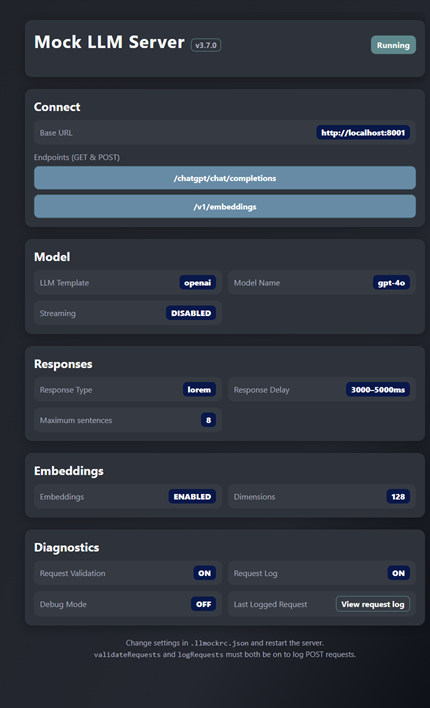
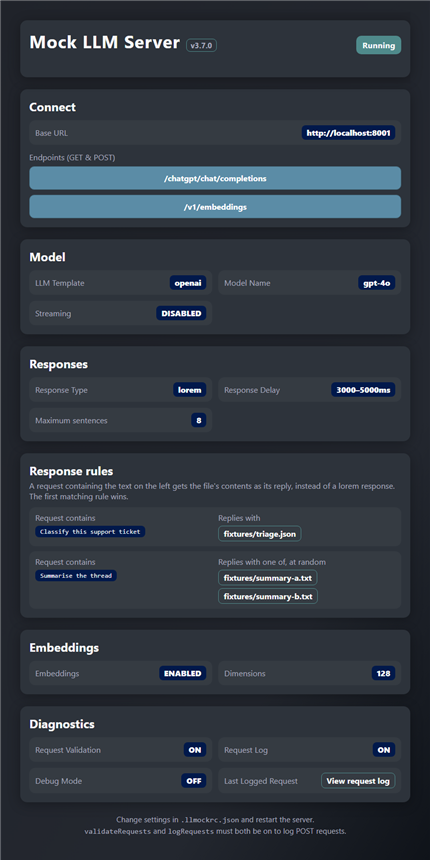
feat(): always show response rules box on dashboard
With no rules set the box shows a blank rule and a note pointing to
the responseRules setting. README screenshot now shows example rules.

diff --git a/ui/src/App.svelte b/ui/src/App.svelte
@@ -206,41 +206,55 @@
 		</div>
 	</section>
 
-	{#if meta?.responseRules?.length}
-		<section class="card" cy-data="response_rules">
-			<h2 style="margin: 0 0 4px 0;">Response rules</h2>
-			<p class="muted" style="margin: 0 0 12px 0;">
-				A request containing the text on the left gets the file's contents as its
-				reply, instead of a {meta.mockResponseType || 'generated'} response. The first
-				matching rule wins.
-			</p>
-			<div class="rules">
-				{#each meta.responseRules as rule, ruleIndex (ruleIndex)}
-					<div class="rule">
-						<div class="ruleMatch">
-							<span class="muted">Request contains</span>
-							<code>{rule.match}</code>
-						</div>
-						<div class="ruleFiles">
-							<span class="muted">
-								{rule.files.length > 1 ? 'Replies with one of, at random' : 'Replies with'}
-							</span>
-							{#each rule.files as file, fileIndex (fileIndex)}
-								<button
-									class="fileLink"
-									cy-data="rule_file_link"
-									title="View this file"
-									on:click={() => viewRuleFile(rule.match, file, ruleIndex, fileIndex)}
-								>
-									{file}
-								</button>
-							{/each}
-						</div>
+	<section class="card" cy-data="response_rules">
+		<h2 style="margin: 0 0 4px 0;">Response rules</h2>
+		<p class="muted" style="margin: 0 0 12px 0;">
+			A request containing the text on the left gets the file's contents as its
+			reply, instead of a {meta?.mockResponseType || 'generated'} response. The first
+			matching rule wins.
+		</p>
+		<div class="rules">
+			{#each meta?.responseRules ?? [] as rule, ruleIndex (ruleIndex)}
+				<div class="rule">
+					<div class="ruleMatch">
+						<span class="muted">Request contains</span>
+						<code>{rule.match}</code>
 					</div>
-				{/each}
-			</div>
-		</section>
-	{/if}
+					<div class="ruleFiles">
+						<span class="muted">
+							{rule.files.length > 1 ? 'Replies with one of, at random' : 'Replies with'}
+						</span>
+						{#each rule.files as file, fileIndex (fileIndex)}
+							<button
+								class="fileLink"
+								cy-data="rule_file_link"
+								title="View this file"
+								on:click={() => viewRuleFile(rule.match, file, ruleIndex, fileIndex)}
+							>
+								{file}
+							</button>
+						{/each}
+					</div>
+				</div>
+			{:else}
+				<!-- The same row as a rule, with its two values left blank -->
+				<div class="rule">
+					<div class="ruleMatch">
+						<span class="muted">Request contains</span>
+						<code class="ruleBlank"></code>
+					</div>
+					<div class="ruleFiles">
+						<span class="muted">Replies with</span>
+						<span class="fileLink ruleBlank"></span>
+					</div>
+				</div>
+				<p class="muted rulesEmpty" cy-data="response_rules_empty">
+					No response rules set. Add <code>responseRules</code> to the model preset in
+					<code>.llmockrc.json</code> to use them.
+				</p>
+			{/each}
+		</div>
+	</section>
 
 	<section class="card" cy-data="embeddings">
 		<h2>Embeddings</h2>

diff --git a/cypress/e2e/gpt-mock-spec.cy.ts b/cypress/e2e/gpt-mock-spec.cy.ts
@@ -106,6 +106,15 @@ describe('Mock LLM Spec for chatGPT', () => {
         });
     });
 
+    it('shows an empty response rules box on the dashboard when no rules are set', () => {
+        cy.visit('/');
+        cy.get('[cy-data="response_rules_empty"]').should(
+            'contain',
+            'No response rules set',
+        );
+        cy.get('[cy-data="rule_file_link"]').should('not.exist');
+    });
+
     it('should validate JSON against schema for a GET Request', () => {
         cy.request('GET', '/chatgpt/chat/completions').then((response) => {
             expect(response.body).to.be.jsonSchema(chatGPTSchema);

diff --git a/ui/src/styles.css b/ui/src/styles.css
@@ -219,6 +219,18 @@ h1 {
 	background: rgba(255, 255, 255, 0.04);
 }
 
+/* With no rules set the row is still drawn, its two values as empty boxes */
+.ruleBlank {
+	align-self: stretch;
+	min-height: 1.5em;
+	cursor: default;
+	pointer-events: none;
+}
+
+.rulesEmpty {
+	margin: 0;
+}
+
 .ruleMatch,
 .ruleFiles {
 	display: flex;

diff --git a/README.md b/README.md
@@ -380,9 +380,9 @@ Once running, open `http://localhost:8001` for the live dashboard:
 | `http://localhost:8001` | Main dashboard |
 | `http://localhost:8001/ping` | Health check |
 
-The dashboard shows server status, the llmock version, current configuration, available endpoints, and the most recent logged request. Settings are grouped into **Connect**, **Model**, **Responses**, **Embeddings** and **Diagnostics**. It refreshes automatically every 2 seconds.
+The dashboard shows server status, the llmock version, current configuration, available endpoints, and the most recent logged request. Settings are grouped into **Connect**, **Model**, **Responses**, **Response rules**, **Embeddings** and **Diagnostics**. It refreshes automatically every 2 seconds.
 
-With `responseType: "stored"` the dashboard names the stored responses file in use (or `Bundled`); click it to read every response in the pool. When the preset has `responseRules`, a **Response rules** box lists each rule's `match` text beside the file(s) it replies with; click a file to read its contents.
+With `responseType: "stored"` the dashboard names the stored responses file in use (or `Bundled`); click it to read every response in the pool. The **Response rules** box lists each of the preset's `responseRules` as its `match` text beside the file(s) it replies with; click a file to read its contents. With no rules set, the box shows a blank rule with a note pointing to the setting.
 
 ### Available endpoints
 
